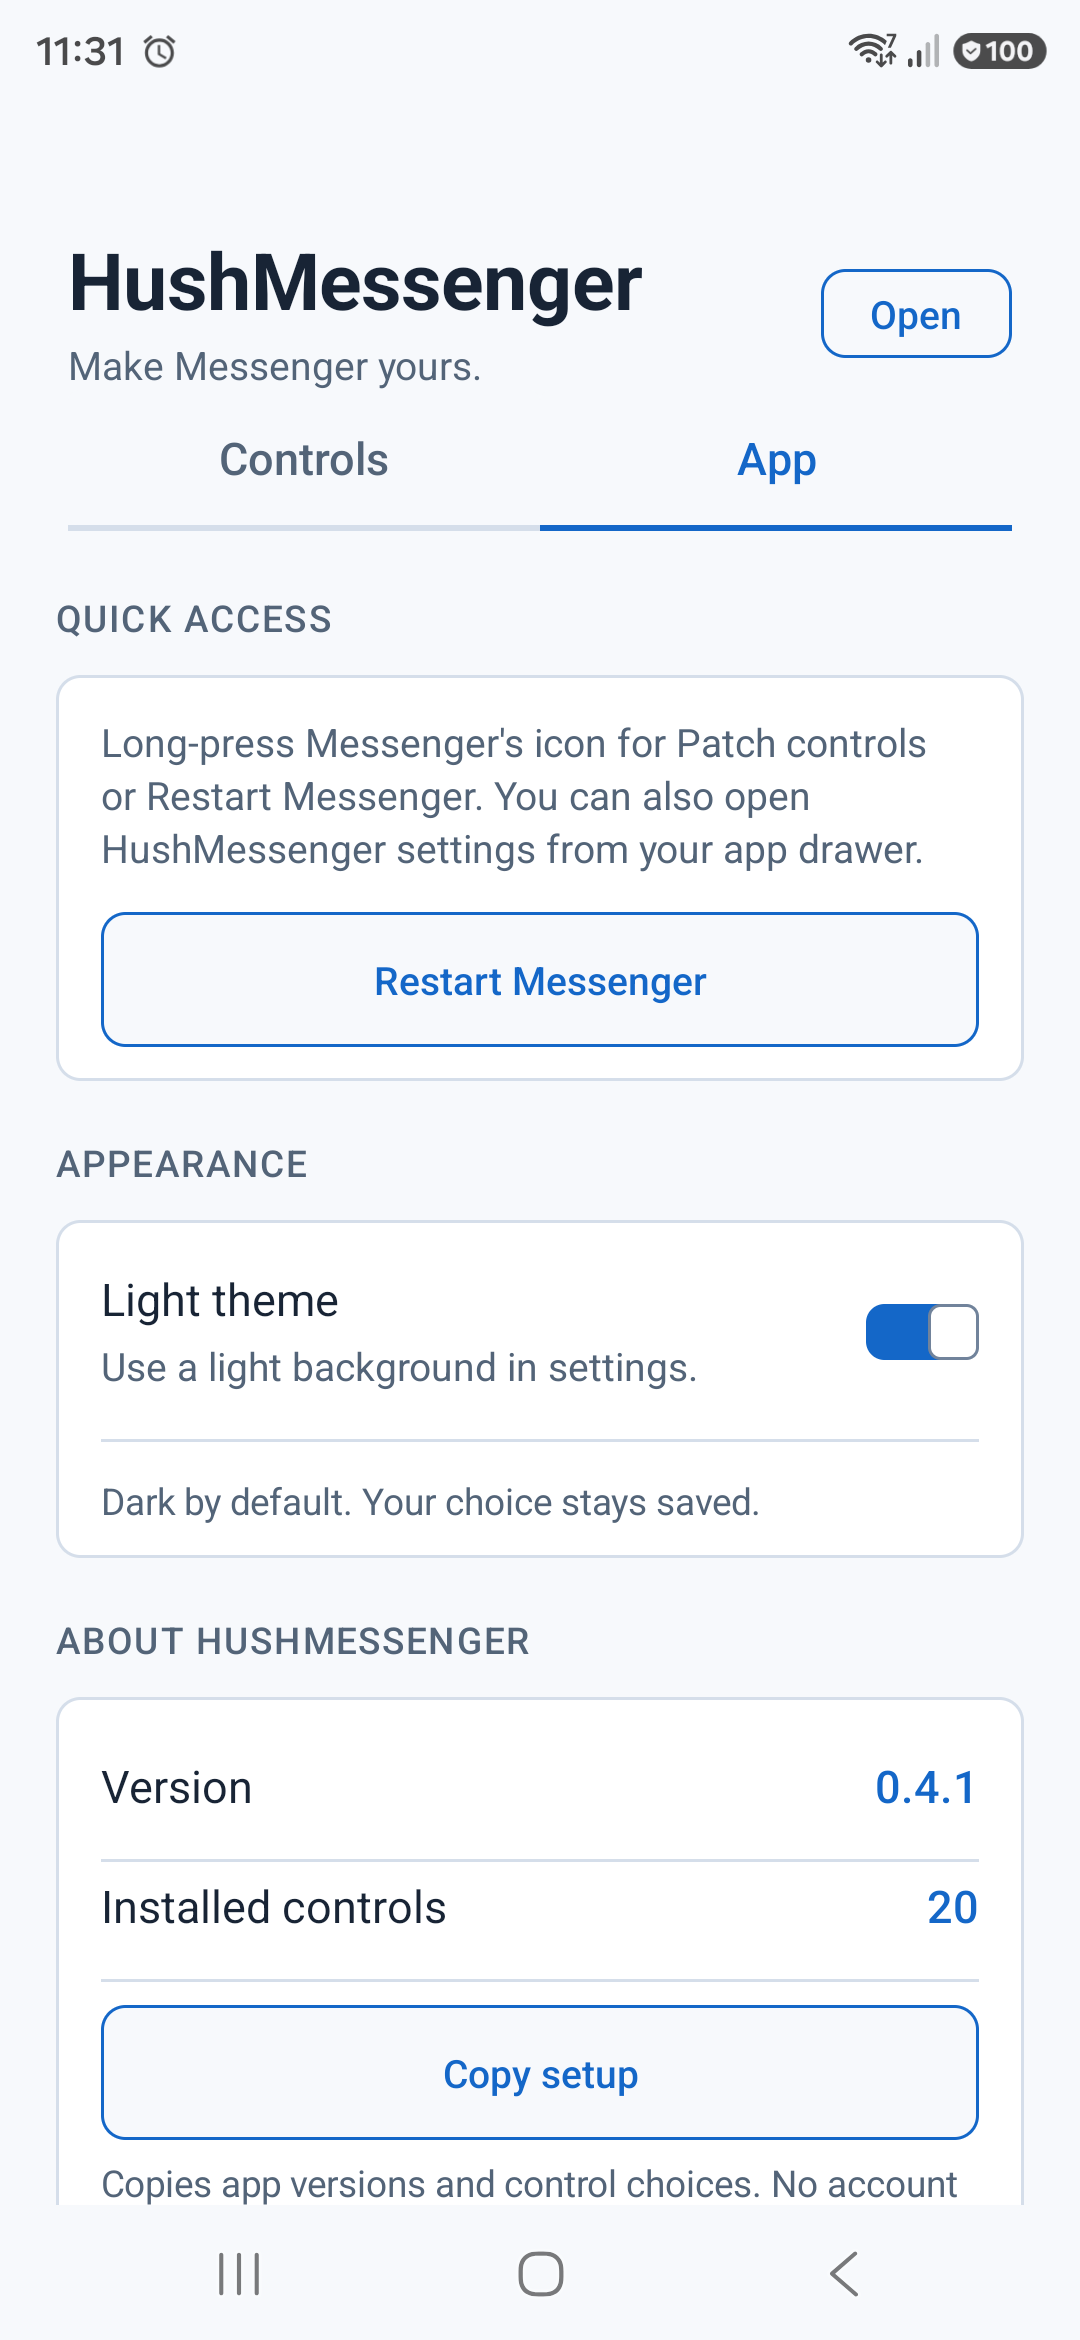
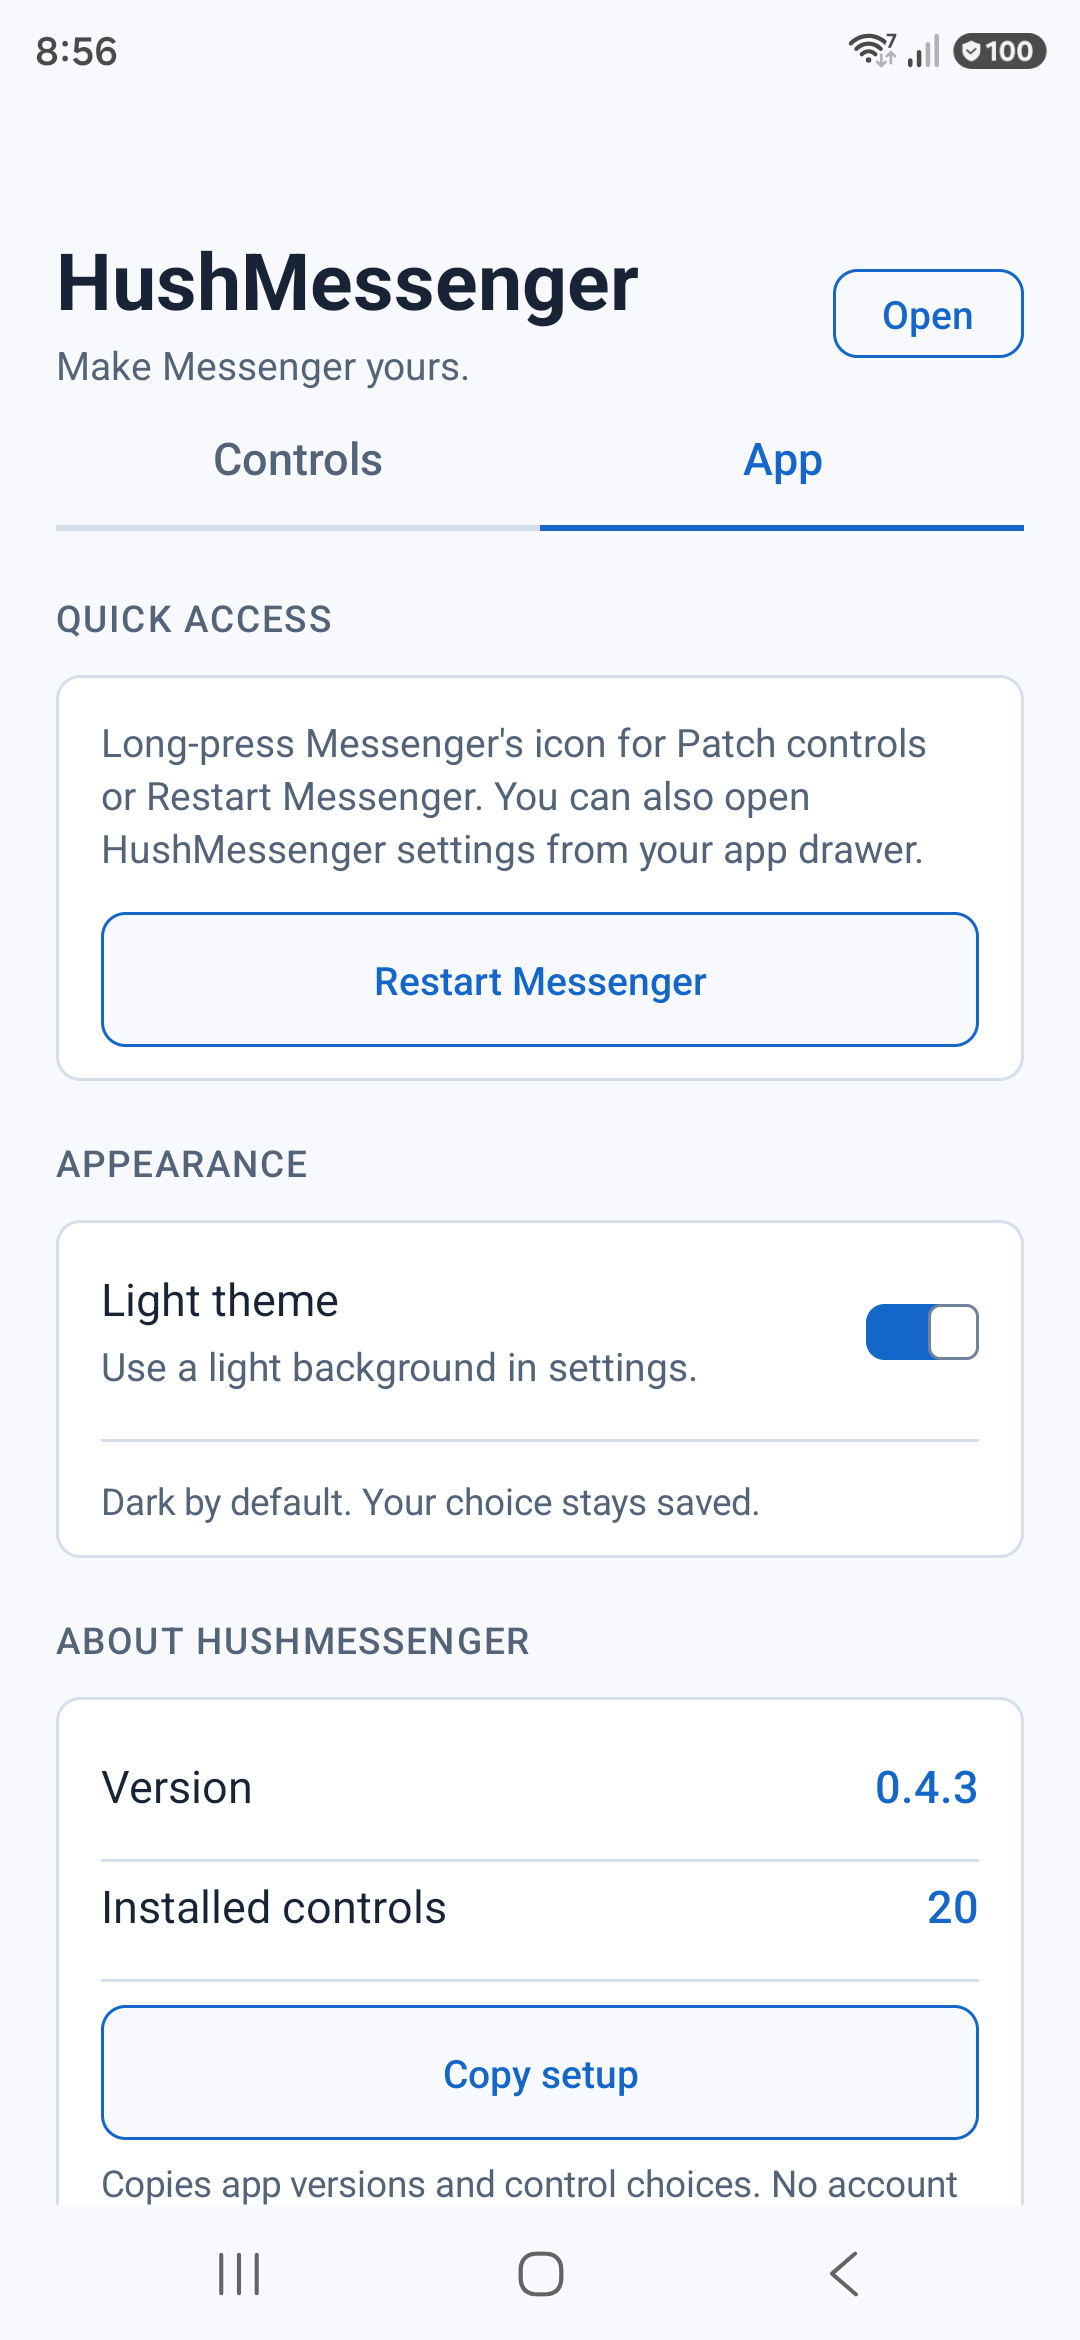
docs: name the exact APKMirror builds and refresh stale README facts
Issue 1's reporter picked their APK through Morphe's APKMirror link. APKMirror's updater API lists 24 variants for 580.0.0.49.91, six of them arm64 nodpi builds with the same label (346013354, 346013370, 346013387, 346013394, 346013423, 346013440), which is how both unsupported reports happened. Link the two supported variant pages from the install steps and the supported-builds table.

Also: 60 hook methods, not 57; current test counts; the 0.4.2 Notifications check and the 0.4.3 restart exposure fix; settings are checked inside patched Messenger now, not only in the preview; screenshots recaptured on the S25 in both themes with the current descriptions, filled light chip and aligned header.

diff --git a/README.md b/README.md
@@ -19,7 +19,7 @@ HushMessenger is a Morphe patch source for Facebook Messenger. It offers 21 sele
 
 ## Get the preview
 
-1. **Check the APK.** This patch targets two arm64 Messenger builds, with version codes `346013387` and `346013440`. The [supported builds](#supported-messenger-builds) have the full details. The version name alone isn't enough.
+1. **Check the APK.** This patch targets two arm64 Messenger builds, with version codes `346013387` and `346013440`. The version name alone isn't enough: APKMirror lists six arm64 "nodpi" builds of 580.0.0.49.91 with the same label, and only two of them work. Download [build 346013440](https://www.apkmirror.com/apk/facebook-2/messenger/facebook-messenger-580-0-0-49-91-release/facebook-messenger-580-0-0-49-91-5-android-apk-download/) or [build 346013387](https://www.apkmirror.com/apk/facebook-2/messenger/facebook-messenger-580-0-0-49-91-release/facebook-messenger-580-0-0-49-91-11-android-apk-download/) directly and check the version code on the page before you patch. The [supported builds](#supported-messenger-builds) have the full details.
 2. **Add the source.** Open the link above on Android with Morphe Manager installed. You can also open **Sources**, tap **+**, choose **Remote**, and enter `github.com/SysAdminDoc/HushMessenger`.
 3. **Check the source.** The HushMessenger card should show **21 patches**. Open **Patches** to browse the catalog. When preparing Messenger, use **Choose patches** to select individual features. Select all for every optional control plus `Install beside Meta apps`. Tap the card's refresh button if it stays on an old version.
 4. **Choose one source.** Use the remote or local HushMessenger source. Adding both creates two cards with the same name, which can point to different versions. If other sources offer Messenger patches, choose the one you intend; mixing independent patches can cause conflicts.
@@ -110,7 +110,7 @@ The [patch catalog](patches-list.json) lists all 21 patches with their categorie
 
 Each control is a separate patch. They share one settings extension, and manifest metadata records which controls were installed. Selecting one control only edits its hooks; omitted controls have no active switches. Saved preferences remain available if you select the feature again later.
 
-The full set checks 57 hook methods across both supported APKs. Plugin gates must retain their expected enable/disable branch and return constants. The tab, browser and ad-filter edits check their specific instruction sites. Each control validates every target before editing its first method, and its settings entry is recorded only after success. A missing or ambiguous target stops that control. The settings provider is private; its launcher accepts no external commands to change preferences.
+The full set checks 60 hook methods across both supported APKs. Plugin gates must retain their expected enable/disable branch and return constants. The tab, browser and ad-filter edits check their specific instruction sites. Each control validates every target before editing its first method, and its settings entry is recorded only after success. A missing or ambiguous target stops that control. The settings provider is private; its launcher accepts no external commands to change preferences. Restart Messenger isn't exported, so only Messenger and its own launcher shortcuts can start it.
 
 ### Install beside Meta apps
 
@@ -129,6 +129,9 @@ If you patch both Messenger and [Hushfacebook](https://github.com/SysAdminDoc/Hu
 | Version codes | `346013387` (S22), `346013440` (S25) |
 | Architecture | `arm64-v8a` |
 | Minimum Android version | Android 9 (API 28) |
+| APKMirror downloads | [346013440](https://www.apkmirror.com/apk/facebook-2/messenger/facebook-messenger-580-0-0-49-91-release/facebook-messenger-580-0-0-49-91-5-android-apk-download/), [346013387](https://www.apkmirror.com/apk/facebook-2/messenger/facebook-messenger-580-0-0-49-91-release/facebook-messenger-580-0-0-49-91-11-android-apk-download/) |
+
+APKMirror's 580.0.0.49.91 release has 24 variants. Six are arm64 "nodpi" builds that look alike: `346013354`, `346013370`, `346013387`, `346013394`, `346013423` and `346013440`. Picking one through Morphe's download link can land on an unsupported build, which the patch rejects before changing anything. Builds `346013354` and `346013370` came up in [issue 3](https://github.com/SysAdminDoc/HushMessenger/issues/3) and [issue 1](https://github.com/SysAdminDoc/HushMessenger/issues/1).
 
 SHA-256 of the stock base APKs used for the off-device checks:
 
@@ -141,13 +144,13 @@ On Windows, compare your file with `Get-FileHash -Algorithm SHA256 .\messenger.a
 
 ## Verification and build
 
-The S25 passed an in-place update using the same signing key as its installed Messenger and Facebook apps. Its original install date and 19 enabled controls were retained. Both long-press actions worked on the real Messenger icon. The settings button and the shortcut each started a new process and returned to the signed-in chat screen. Both settings pages and themes were captured, then the original dark theme was restored. No conversations were opened or messages sent. Temporary test apps were removed. S22 remains stock.
+The S25 took each update in place with the same signing key as its installed Messenger and Facebook apps. Its original install date and 19 enabled controls were retained. On 0.4.2 the Notifications tab lost its People You May Know section, which came back while paused and disappeared again after resuming. Chats and real notifications still showed. On 0.4.3 another app can no longer start Restart Messenger: Android refuses it as not exported. The real long-press Restart Messenger shortcut and the App tab button still start a new process and return to the signed-in chat screen. Both settings pages were captured in both themes, then the original dark theme was restored. No conversations were opened or messages sent. S22 remains stock.
 
-The local suite has 49 Kotlin tests, 70 Android unit tests and 34 Python checks. It covers separate patch selection, changed targets, feature availability, pause, saved choices, search and typed ad filtering. Release builds run locally. Android lint reports no errors and eight warnings, including two package-visibility notices for queries restricted to this app.
+The local suite has 52 Kotlin tests, 75 Android unit tests and 35 Python checks. It covers separate patch selection, changed targets, feature availability, pause, saved choices, search and typed ad filtering. Release builds run locally. Android lint reports no errors and eight warnings, including two package-visibility notices for queries restricted to this app.
 
 Morphe Desktop 1.17.0 applied all 21 patches to private copies of both supported APKs, and Android verified their v3 signatures. Two clean release builds produced the same bundle checksum. Both rebuilt APKs preserved all 13 compressed arm64 libraries, with 16KB minimum ELF load alignment. A changed permission fixture stopped before output; continued exports left failed People methods and permission declarations untouched. The earlier v0.2.0 single-control S25 build selected only **Hide People You May Know**: it changed exactly the two expected host methods, added settings once and recorded only that feature. The original signature-permission patch wasn't selected or applied in that check.
 
-The current settings extension was exercised as a clearly marked standalone UI preview on the S25 physical screen. Both pages and themes passed; the mirrored test language preserved multi-digit counts. The preview was removed after each check. Automated tests cover API 28 and 36, short windows at 200% text, state restoration and accessible actions. These checks verify settings behavior. Live TalkBack was stopped at the user's request and remains unverified. Messenger features still need signed-in before/after checks in a working patched installation.
+The settings screens now run inside the patched Messenger on the S25, where both pages and themes were checked. Earlier checks used a clearly marked standalone UI preview, removed after each run; the mirrored test language preserved multi-digit counts there. Automated tests cover API 28 and 36, short windows at 200% text, state restoration and accessible actions. These checks verify settings behavior. Live TalkBack was stopped at the user's request and remains unverified. Messenger features still need signed-in before/after checks in a working patched installation.
 
 The earlier v0.1.0 diagnostic copy verified hiding and restoring stories and notes, the Facebook toolbar shortcut and the Meta AI floating button. That copy needed a private package-name adjustment and skipped encrypted-history restoration. It does not establish that an original-package installation works. Typing suppression, subtabs, bubbles, live ads and full chat behavior remain unverified.
 
